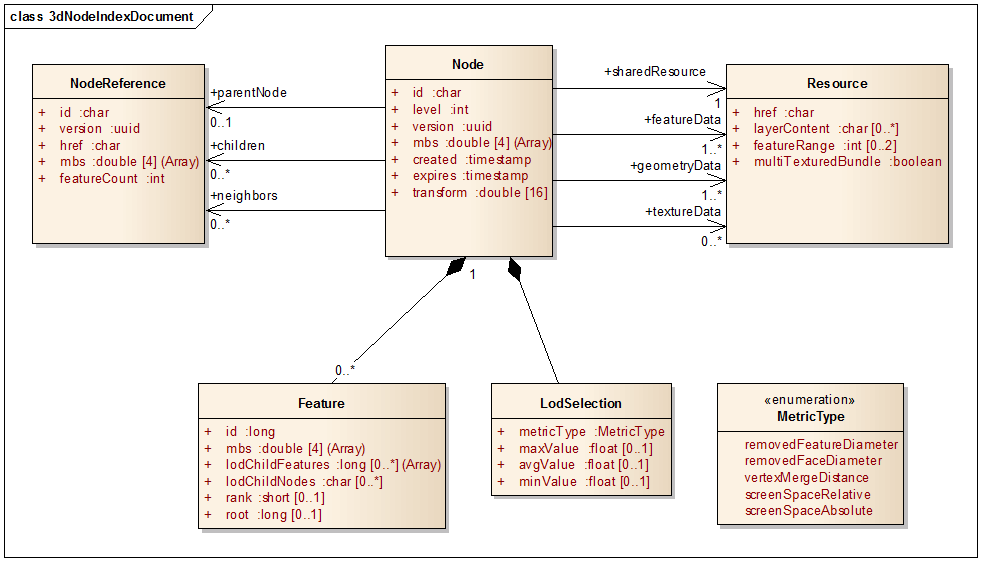
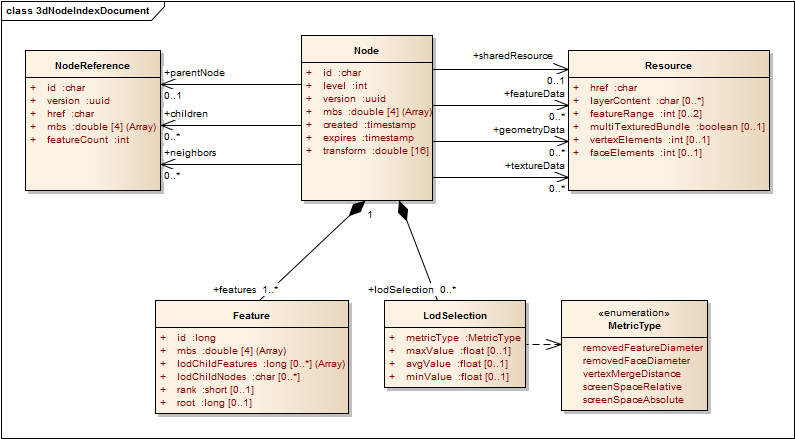
Updated UML diagrams and texts/tables for 3DSceneServiceInfo, 3dSceneLayerInfo and 3dNodeIndexDocument

diff --git a/format/Indexed 3d Scene Format Specification.md b/format/Indexed 3d Scene Format Specification.md
@@ -419,7 +419,7 @@ sets offered by an instance of a 3dSceneService.</p>
 
 <img src="images/figure-06.png" title="Logical schema of the 3dSceneServiceInfo document" alt="Logical schema of the 3dSceneServiceInfo document" />
 
-<p>Figure 6: Logical schema of the 3dSceneServiceInfo document</p>
+<p><em>Figure 6: Logical schema of the 3dSceneServiceInfo document</em></p>
 
 <p>This file is not generated by the authoring tools and is not part of a i3p package file.
 It is generated solely by the 3D Scene Server for each service instance. Its
@@ -457,13 +457,18 @@ describes a running SceneService instance. </p>
 		<td>String[1..3]</td>
 		<td>Supported profiles of the service from the choice {Base, Dynamic, Editing}.</td>
 	</tr>
+	<tr>
+		<td>layers</td>
+		<td>LayerSummary[1..*]</td>
+		<td>The summary Layer information - an extract of the full 3dSceneLayer information.</td>
+	</tr>
 </table>
 
 <p><em>Table 3: Attributes of the Class <strong>3dSceneServiceInfo</strong> within the 3dSceneServiceInfo document</em></p>
 
-<h4>Class Layer</h4>
+<h4>Class LayerSummary</h4>
 
-<p>In the 3dSceneServiceInfo document, the Layer object provides a reference so that
+<p>In the 3dSceneServiceInfo document, the LayerSummary object provides a reference so that
 clients know which Layers are served by a given service. </p>
 
 <table>
@@ -488,11 +493,6 @@ clients know which Layers are served by a given service. </p>
 		<td>An optional display alias for the layer.</td>
 	</tr>
 	<tr>
-		<td>geometryType</td>
-		<td>String</td>
-		<td>The geometry type of the store; selected from <code>{FeatureMesh, IntegratedMesh, RasterTerrain, TINTerrain, Point, Line, Polygon, PointCloud}</code>.</td>
-	</tr>
-	<tr>
 		<td>lodType </td>
 		<td>String[0..1]</td>
 		<td>The type of level of detail information present; selected from <code>{FeatureTree, MeshPyramid}</code>. The default is <code>FeatureTree</code>.</td>
@@ -504,7 +504,7 @@ clients know which Layers are served by a given service. </p>
 	</tr>
 </table>
 
-<p><em>Table 4: Attributes of the Class Layer within the 3dSceneServiceInfo document</em></p>
+<p><em>Table 4: Attributes of the Class LayerSummary within the 3dSceneServiceInfo document</em></p>
 
 <h3><a name="_7_2">3dSceneLayerInfo.js</a></h3>
 
@@ -652,6 +652,11 @@ applied.</p>
 		<td>The type of level of detail information present; selected from <code>{FeatureTree, MeshPyramid}</code>. The default is <code>FeatureTree</code>.</td>
 	</tr>
 	<tr>
+		<td>knownVertexOrder</td>
+		<td>Boolean[0..1]</td>
+		<td>Optional vertex order indicator field to tell clients whether they can safely use backface culling. The default is <code>true</code>.</td>
+	</tr>
+	<tr>
 		<td>indexingScheme</td>
 		<td>String</td>
 		<td>Indexing Scheme used; selected from <code>{esriRTree, QuadTree, AGOLTilingScheme}</code></td>
@@ -661,9 +666,39 @@ applied.</p>
 		<td>String[1..3]</td>
 		<td>Ordered list of keywords indicating the ordering scheme applied to sort features within a node; selected from <code>{ID, Prominence, Layer}</code></td>
 	</tr>
+	<tr>
+		<td>defaultGeometrySchema</td>
+		<td>GeometrySchema[0..1]</td>
+		<td>A common, global ArrayBufferView definition that can be used if the schema of vertex attributes and face attributes is consistent in an entire cache; this is a requirement for meshpyramid caches.</td>
+	</tr>
 </table>
 
 <p><em>Table 6: Attributes of the Class <strong>Store</strong> within the 3dSceneServiceInfo document</em></p>
+
+<h4>Class GeometrySchema</h4>
+
+<p>Used in stores where all ArrayBufferView geometry declarations use the same pattern for face and vertex elements. 
+Reduces redundancies of ArrayBufferView geometry declarations in a store.Reuses the GeometryAttribute type from FeatureData; however, only valueType and valuesPerElement are mandatory.</p>
+
+<table>
+	<tr>
+		<td><strong>Name</strong></td>
+		<td><strong>Type</strong></td>
+		<td><strong>Description</strong></td>
+	</tr>
+	<tr>
+		<td>vertexAttributes</td>
+		<td>FeatureData::GeometryAttribute[1..*]</td>
+		<td>The horizontal CRS used for all minimum bounding spheres (mbs) in this store, identified by an OGC URL.</td>
+	</tr>
+	<tr>
+		<td>faces</td>
+		<td>FeatureData::GeometryAttribute[0..*]</td>
+		<td>The horizontal CRS used for all "vertex positions" in this store, identified by an OGC URL.</td>
+	</tr>
+</table>
+
+<p><em>Table 6a: Attributes of the Class <strong>Store</strong> within the 3dSceneServiceInfo document</em></p>
 
 <h4>Class Field</h4>
 
@@ -683,7 +718,9 @@ applied.</p>
 	<tr>
 		<td>type</td>
 		<td>String</td>
-		<td>The type of the field, from this enum: <code>{esriFieldTypeBlob, esriFieldTypeDate, esriFieldTypeDouble, esriFieldTypeGeometry, esriFieldTypeGlobalID, esriFieldTypeGUID, esriFieldTypeInteger, esriFieldTypeOID, esriFieldTypeRaster, esriFieldTypeSingle, esriFieldTypeSmallInteger, esriFieldTypeString, esriFieldTypeXML}</code></td>
+		<td>The type of the field, from this enum: <code>{esriFieldTypeBlob, esriFieldTypeDate, esriFieldTypeDouble, esriFieldTypeGeometry, 
+		esriFieldTypeGlobalID, esriFieldTypeGUID, esriFieldTypeInteger, esriFieldTypeOID, 
+		esriFieldTypeSmallInteger, esriFieldTypeString, esriFieldTypeGroup}</code></td>
 	</tr>
 	<tr>
 		<td>alias</td>
@@ -758,7 +795,7 @@ the Minimum Bounding Sphere as spheres.</p>
 
 <img src="images/figure-08.png" title="Logical schema of the 3dNodeIndexDocument document" alt="Logical schema of the 3dNodeIndexDocument document" />
 
-<p>Figure 8: Logical schema of the 3dNodeIndexDocument</p>
+<p><em>Figure 8: Logical schema of the 3dNodeIndexDocument</em></p>
 
 <h4>Class Node</h4>
 
@@ -773,7 +810,7 @@ object in a 3dNodeIndexDocument.</p>
 	</tr>
 	<tr>
 		<td>id</td>
-		<td>String TreeKey</td>
+		<td>String (TreeKey)</td>
 		<td>Tree Key ID, unique within the store. The root node is always "root", all others follow the pattern "2-4-0-15-2". At each level in a subtree, numbering starts at 0.</td>
 	</tr>
 	<tr>
@@ -794,20 +831,64 @@ object in a 3dNodeIndexDocument.</p>
 	<tr>
 		<td>created</td>
 		<td>Date[0..1]</td>
-		<td>Creation date of this node in UTC, presented as a string in the format YYYY-MM-DDThh:mmZ (see http://www.w3.org/TR/NOTE-datetime).</td>
+		<td>Creation date of this node in UTC, presented as a string in the format YYYY-MM-DDTHH:MM:SS.sssZ (see http://www.w3.org/TR/NOTE-datetime).</td>
 	</tr>
 	<tr>
 		<td>expires</td>
 		<td>Date[0..1]</td>
-		<td>Expiration date of this node in UTC, presented as a string in the format YYYY-MM-DDThh:mmZ (see http://www.w3.org/TR/NOTE-datetime).</td>
+		<td>Expiration date of this node in UTC, presented as a string in the format YYYY-MM-DDTHH:MM:SS.sssZ (see http://www.w3.org/TR/NOTE-datetime).</td>
 	</tr>
 	<tr>
 		<td>transform</td>
 		<td>Float[16]</td>
 		<td>Optional, 3D (4x4) transformation matrix expressed as a linear array of 16 values.</td>
 	</tr>
+	<tr>
+		<td>parentNode</td>
+		<td>NodeReference[0..1]</td>
+		<td>Reference to the parent Node of a Node.</td>
+	</tr>
+	<tr>
+		<td>children</td>
+		<td>NodeReference[0..*]</td>
+		<td>Reference to the child Nodes of a Node.</td>
+	</tr>
+	<tr>
+		<td>neighbors</td>
+		<td>NodeReference[0..*]</td>
+		<td>Reference to the neighbor (same level, spatial proximity) Nodes of a Node.</td>
+	</tr>
+	<tr>
+		<td>sharedResource</td>
+		<td>Resource[0..1]</td>
+		<td>Resource reference describing a shared resource document.</td>
+	</tr>
+	<tr>
+		<td>featureData</td>
+		<td>Resource[0..*]</td>
+		<td>Resource reference describing a FeatureData document.</td>
+	</tr>
+	<tr>
+		<td>geometryData</td>
+		<td>Resource[0..*]</td>
+		<td>Resource reference describing a geometry resource.</td>
+	</tr>
+	<tr>
+		<td>textureData</td>
+		<td>Resource[0..*]</td>
+		<td>Resource reference describing a texture resource.</td>
+	</tr>
+	<tr>
+		<td>lodSelection</td>
+		<td>LodSelection[0..*]</td>
+		<td>Metrics for LOD Selection, to be evaluated by the client.</td>
+	</tr>
+	<tr>
+		<td>features</td>
+		<td>Feature[1..*]</td>
+		<td>A list of summary information on the features present in this Node, used for previsualisation and LoD switching in featureTree LoD stores.</td>
+	</tr>
 </table>
-
 
 <p><em>Table 9: Attributes of the Class <strong>Node</strong> within the NodeIndexDocument</em></p>
 
@@ -885,6 +966,16 @@ resources.</p>
 		<td>Boolean</td>
 		<td>Only applicable for textureData resources. <code>true</code> if the bundle contains multiple textures. If <code>false</code>, clients can interpret the entire bundle as a single image. </td>
 	</tr>
+	<tr>
+		<td>vertexElements</td>
+		<td>Integer[0..1]</td>
+		<td>Only applicable for geometryData resources. Represents the Count of elements in vertexAttributes; multiply by the sum of bytes required for each element as defined in the defaultGeometrySchema.</td>
+	</tr>
+	<tr>
+		<td>faceElements</td>
+		<td>Integer[0..1]</td>
+		<td>Only applicable for geometryData resources. Represents the Count of elements in faceAttributes; multiply by the sum of bytes required for each element as defined in the defaultGeometrySchema.</td>
+	</tr>
 </table>
 
 <p><em>Table 11: Attributes of the Class <strong>Resource</strong> within the NodeIndexDocument</em></p>
@@ -898,7 +989,7 @@ In the 3dNodeIndexDocument, these objects define relationships, e.g. for linking
 	<tr>
 		<td>id</td>
 		<td>Integer</td>
-		<td>An ID of the Feature, unique within the store (important to note when using Features from multiple stores!)</td>
+		<td>An ID of the Feature object, unique within the store (important to note when using Features from multiple stores!). The ID must not be re-used e.g. for multiple representaiton of an input feature that are present in different nodes.</td>
 	</tr>
 	<tr>
 		<td>mbs</td>
@@ -1179,9 +1270,9 @@ Feature can have multiple geometries, which can consist of multiple components.<
 
 <p><em>Table 19: Attributes of the Class <strong>MultiComponentParams</strong> within the FeatureData document</em></p>
 	
-<h4>Class SingleComponentGeometry</h4>
+<h4>Class SingleComponentParams</h4>
 
-Objects of this type extend VestedGeometryParams and use only one texture and one material. They do not contain components.</p>
+Objects of this type extend VestedGeometryParams and use only one texture and one material. They do not contain components and can be used with aggregated LoD geometries.</p>
 
 <table>
 	<tr>
@@ -1201,7 +1292,7 @@ Objects of this type extend VestedGeometryParams and use only one texture and on
 	</tr>
 </table>
 
-<p><em>Table 20: Attributes of the Class <strong>FeatureAttribute</strong> within the FeatureData document</em></p>
+<p><em>Table 20: Attributes of the Class <strong>SingleComponentParams</strong> within the FeatureData document</em></p>
 
 <h4><a name="_7_4_Components">Class Component</a></h4>
 
@@ -1279,7 +1370,7 @@ which vertex positions make up a face.</p>
 	</tr>
 </table>
 
-<p><em>Table 22: Attributes of the Class <strong>FeatureAttribute</strong> within the FeatureData document</em></p>
+<p><em>Table 22: Attributes of the Class <strong>GeometryAttribute</strong> within the FeatureData document</em></p>
 
 <h3><a name="_7_5">SharedResources.js</a></h3>
 
